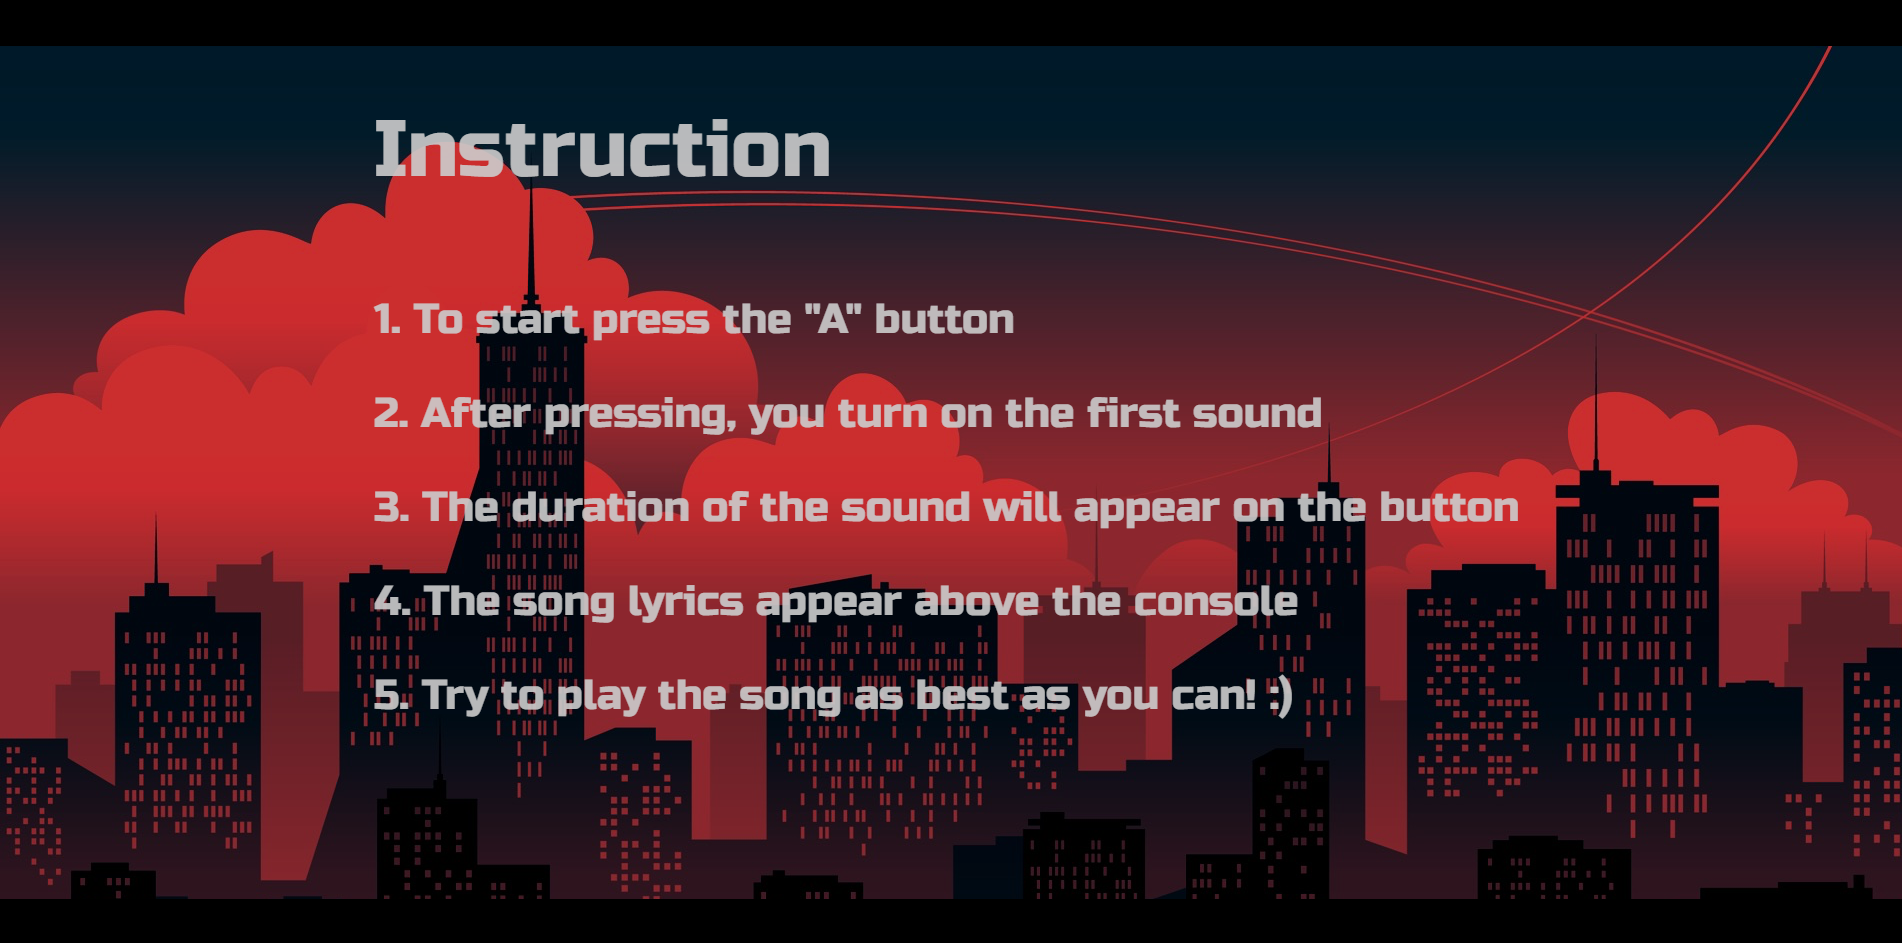
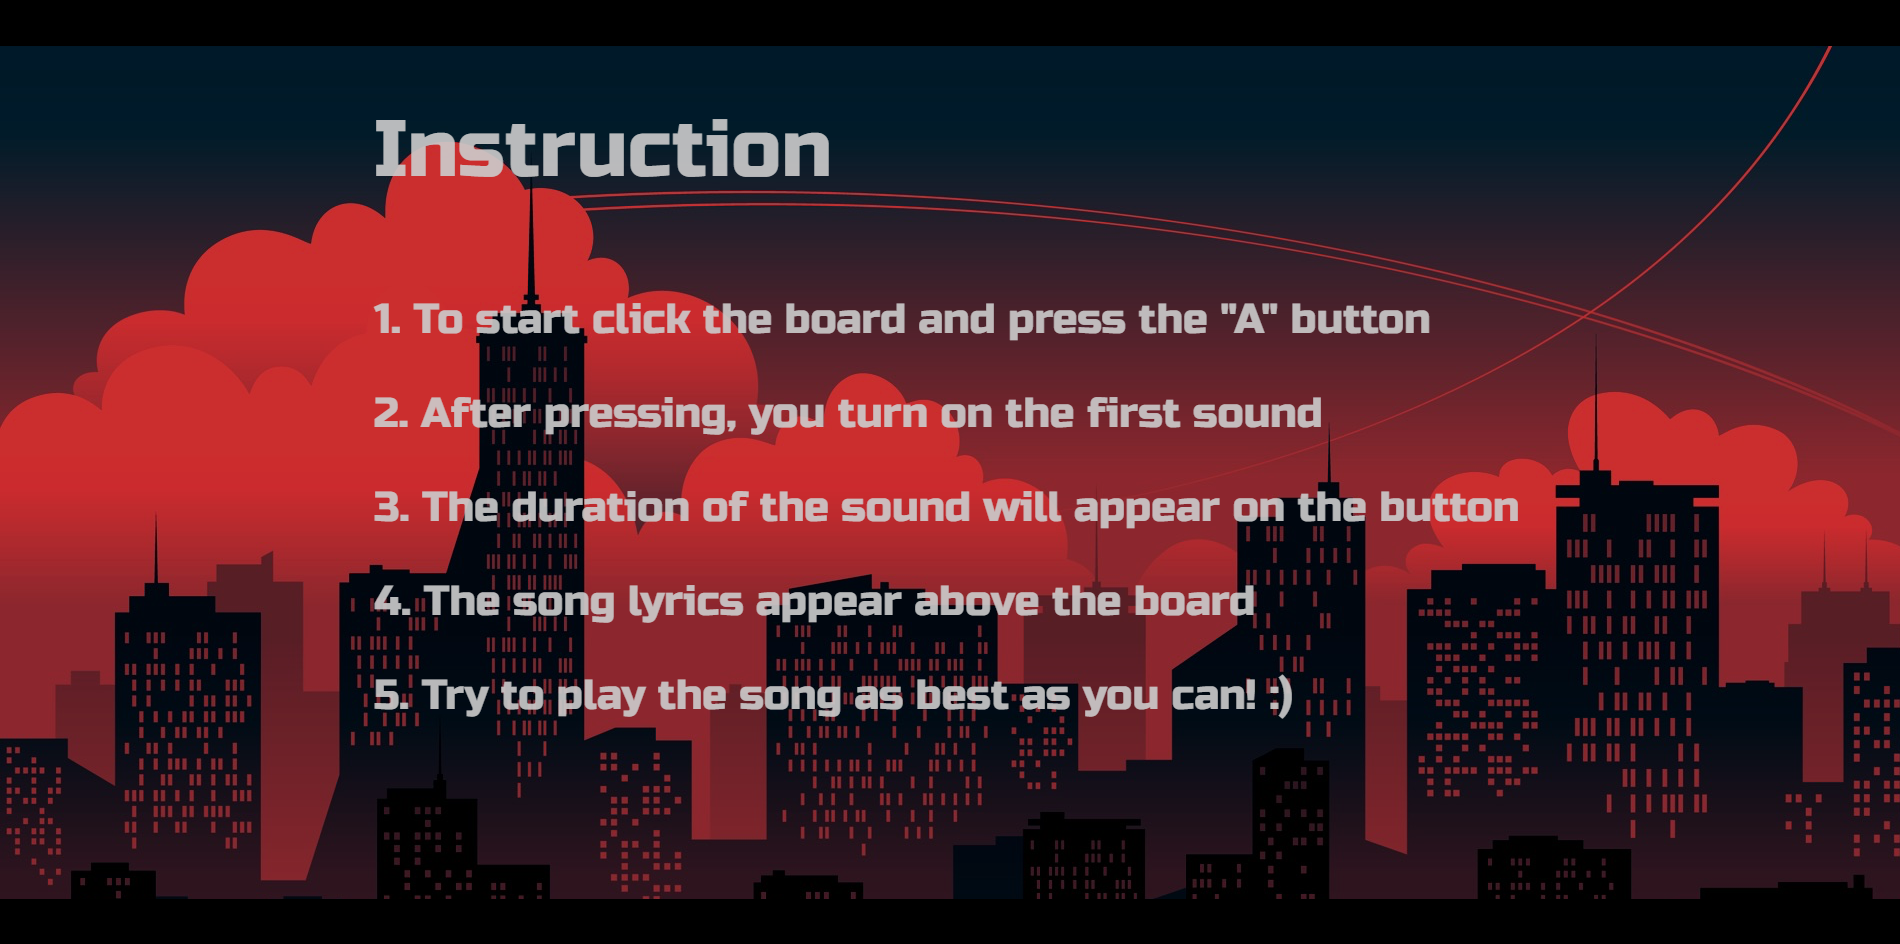
Readme screenshot

diff --git a/js/components/content/content.jsx b/js/components/content/content.jsx
@@ -14,7 +14,7 @@ class Content extends React.Component {
 
         }
 
-        window.addEventListener('keydown', e => this.handleKeyDown(e) );
+        // window.addEventListener('keydown', e => this.handleKeyDown(e) );
     }
 
     handleKeyDown = (e) => {
@@ -42,7 +42,6 @@ class Content extends React.Component {
             } else {
                 playing += "";
             }
-
             const elem =  <Button dataKey={buttons[i].dataKey}
                                   playing= {playing}
                                   name={buttons[i].name}
@@ -65,7 +64,7 @@ class Content extends React.Component {
         return <section className="content">
             <div className="container">
                 <div className="col-12 main-content">
-                    <div className="board" tabIndex="0">
+                    <div className="board" onKeyDown={this.handleKeyDown} tabIndex="0">
                         {rows}
                     </div>
                 </div>

diff --git a/js/components/instruction/instruction.jsx b/js/components/instruction/instruction.jsx
@@ -10,10 +10,10 @@ class Instruction extends React.Component{
                     <div className="col-8 main-instruction-box">
                         <h1>Instruction</h1>
                         <ul>
-                            <li>1. To start press the "A" button</li>
+                            <li>1. To start click the board and press the "A" button</li>
                             <li>2. After pressing, you turn on the first sound</li>
                             <li>3. The duration of the sound will appear on the button</li>
-                            <li>4. The song lyrics appear above the console</li>
+                            <li>4. The song lyrics appear above the board</li>
                             <li>5. Try to play the song as best as you can! :)</li>
                         </ul>
                     </div>

diff --git a/scss/partials/_content.scss b/scss/partials/_content.scss
@@ -8,6 +8,7 @@
   justify-content: center;
 
 }
+
 .board{
   margin: 10vh;
   width: 80vw;
